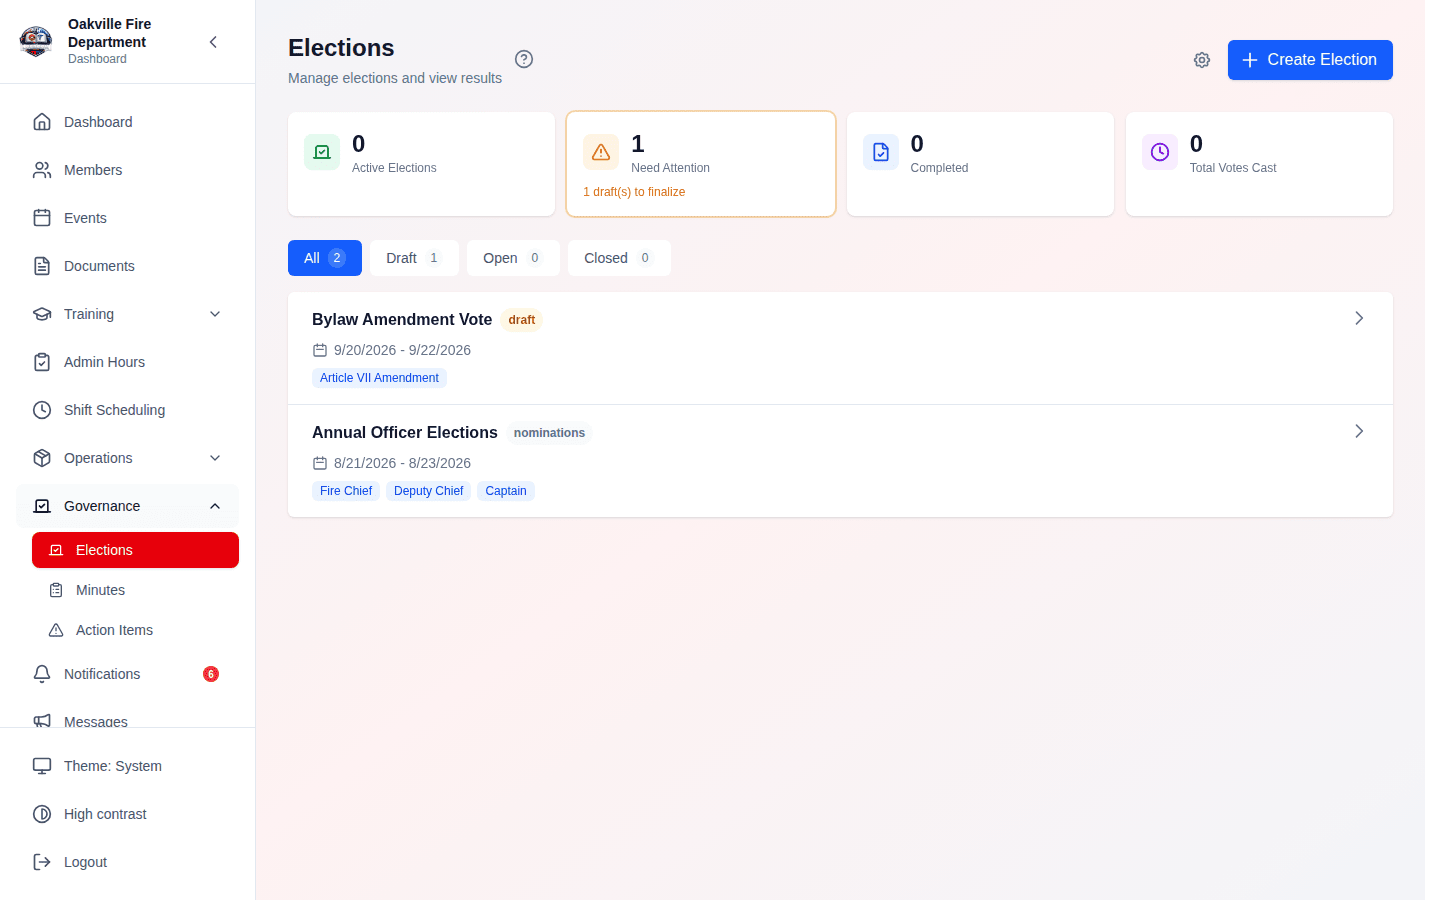
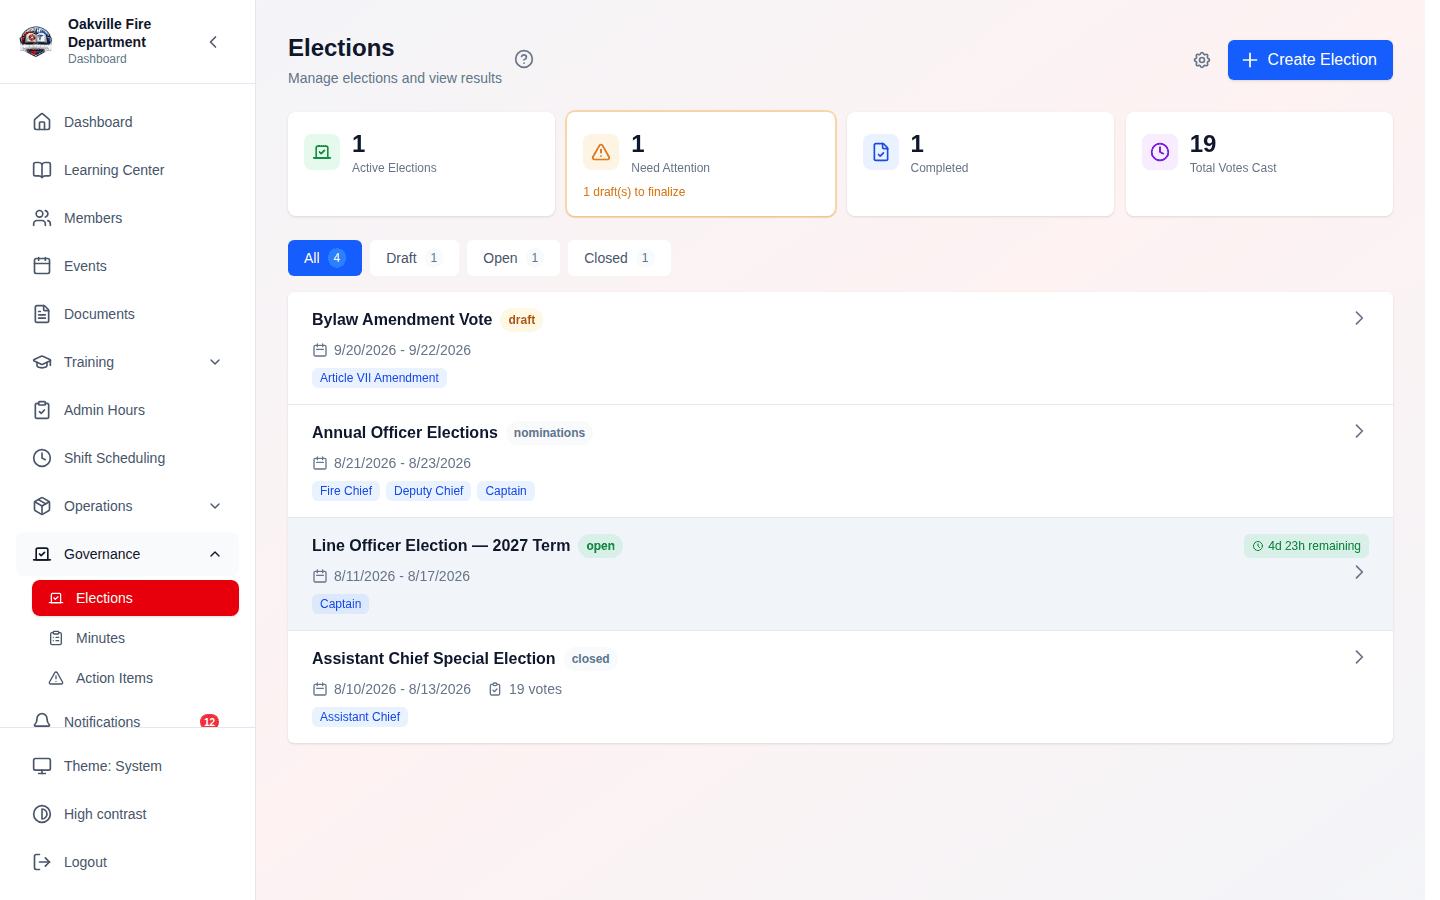
Photograph a member's ballot, and find that half of one is missing
Seeded an election that is actually taking votes. The three seeded elections
were a draft, one in nominations and one closed — between them they covered
every screen except the one a rank-and-file member uses, so the voting page
could only ever be photographed empty. The new one is left with no votes
recorded, because a member who has already voted is shown the receipt instead
of a ballot. Its ballot deliberately mixes a position race with a bylaw
amendment.

That mix is what exposed the finding. Members reach a ballot two ways and the
two disagree about what is on it: the public token ballot reads
election.ballot_items and renders every item, submitting them atomically by
ballot_item_id, while the in-app Cast Vote tab never reads ballot_items at all
— it derives the ballot from election.positions and submits one position at a
time. An item with no position is therefore invisible in the app. It is not
refused or flagged; the ballot simply omits it and the button names the one
position it found. A secretary who builds a two-item ballot and watches members
vote in-app gets a result for one item and silence on the other. Converging the
two ballots is a real piece of work, not a patch, so it is written up as needing
an owner and the guide now says to send the public link for a mixed ballot.

The seeder could not reach any of this at first: on a re-run the elections step
died trying to link the already-closed election to a meeting, which fails
[…]

diff --git a/scripts/screenshots/seed_demo_data.py b/scripts/screenshots/seed_demo_data.py
@@ -7312,7 +7312,114 @@ class Seeder:
         self._link_elections_to_meetings(elections)
         self._seed_nominations(elections)
         self._seed_closed_election(elections, minutes or [])
+        self._seed_open_election(elections)
         return elections
+
+    OPEN_ELECTION_TITLE = "Line Officer Election — 2027 Term"
+
+    # Two candidates and a separate yes/no question, so one ballot shows both
+    # controls a voter meets: a candidate choice and an approval vote.
+    OPEN_ELECTION_CANDIDATES = [
+        (
+            "Dana Ruiz",
+            "Nine years on Engine 1, acting officer since 2025.",
+        ),
+        (
+            "Emeka Adeyemi",
+            "Rescue technician and lead instructor for vehicle extrication.",
+        ),
+    ]
+
+    def _seed_open_election(self, elections: list[dict]) -> None:
+        """An election actually taking votes, so the member ballot can be shown.
+
+        The other three seeded elections are a draft, one taking nominations
+        and one closed — between them they cover everything except the screen
+        a rank-and-file member actually uses. Without one in ``open`` status
+        the voting page can only ever be photographed empty.
+
+        Deliberately left with no votes recorded: the shot wanted is an
+        unmarked ballot, and any member who has already voted is shown the
+        receipt instead.
+        """
+        if any(pick(e, "title") == self.OPEN_ELECTION_TITLE for e in elections):
+            return
+
+        members = items(self.api.get("/users?limit=100"), "users")
+        by_name = {
+            f"{pick(m, 'first_name', 'firstName')} "
+            f"{pick(m, 'last_name', 'lastName')}": pick(m, "id")
+            for m in members
+        }
+
+        election = self.api.post(
+            "/elections",
+            {
+                "title": self.OPEN_ELECTION_TITLE,
+                "description": (
+                    "Annual election for line officer positions, plus one "
+                    "bylaw amendment carried over from the August meeting."
+                ),
+                "election_type": "position",
+                "positions": ["Captain"],
+                "ballot_items": [
+                    {
+                        "id": "item-captain",
+                        "type": "officer_election",
+                        "title": "Captain",
+                        "description": (
+                            "Vote for one candidate for Captain, two-year term "
+                            "beginning January 2027."
+                        ),
+                        "position": "Captain",
+                        "vote_type": "candidate_selection",
+                        "voting_method": "simple_majority",
+                    },
+                    {
+                        "id": "item-bylaw",
+                        "type": "general_vote",
+                        "title": "Bylaw Amendment — Article IV, Meeting Quorum",
+                        "description": (
+                            "Shall Article IV be amended to reduce the quorum "
+                            "for a business meeting from 40% to 30% of active "
+                            "members?"
+                        ),
+                        "vote_type": "approval",
+                    },
+                ],
+                "start_date": iso(NOW - timedelta(days=1)),
+                "end_date": iso(NOW + timedelta(days=5)),
+                "anonymous_voting": True,
+                "allow_write_ins": True,
+                "results_visible_immediately": False,
+                "voting_method": "simple_majority",
+                "victory_condition": "most_votes",
+                "quorum_type": "percentage",
+                "quorum_value": 50,
+            },
+        )
+        election_id = pick(election, "id")
+        if not election_id:
+            return
+
+        for name, statement in self.OPEN_ELECTION_CANDIDATES:
+            self.api.post(
+                f"/elections/{election_id}/candidates",
+                {
+                    "election_id": election_id,
+                    "name": name,
+                    "position": "Captain",
+                    "user_id": by_name.get(name),
+                    "statement": statement,
+                },
+            )
+
+        try:
+            self.api.post(f"/elections/{election_id}/open")
+        except ApiError as exc:
+            self.blocked.append(f"open election: {exc}")
+            return
+        elections.append(self.api.get(f"/elections/{election_id}"))
 
     # Who attests the paper tally. Neither may be a candidate, and neither may
     # be the officer who recorded the batch — the API enforces both.
@@ -7512,6 +7619,14 @@ class Seeder:
         for index, election in enumerate(elections):
             election_id = pick(election, "id")
             if not election_id or pick(election, "event_id", "eventId"):
+                continue
+            # A closed or cancelled election refuses every field update except
+            # results_visible_immediately, so patching one is a guaranteed 400.
+            # It matters on a re-run: the list representation omits event_id, so
+            # an already-linked election looks unlinked here and we would try to
+            # link it again — failing the whole elections step, and with it every
+            # election seeded after this call.
+            if str(pick(election, "status") or "").lower() in {"closed", "cancelled"}:
                 continue
             meeting_id = pick(meetings[index % len(meetings)], "id")
             if not meeting_id:

diff --git a/docs/KNOWN_LIMITATIONS.md b/docs/KNOWN_LIMITATIONS.md
@@ -1297,6 +1297,38 @@ Two related facts worth carrying:
   trusts it over the manifest.** When that copy goes stale, `npm ls` reports the
   tree as invalid while `npm ci` still exits 0 — a silent refusal to re-resolve.
 
+## Elections — The In-App Ballot Only Shows Position Races (2026-08-12)
+
+An election can carry three kinds of ballot item — `officer_election`,
+`general_vote` and `membership_approval` — and the Ballot Builder happily
+creates all three. Members reach a ballot two ways, and the two disagree about
+what is on it:
+
+- **The public token ballot** (`BallotVotingPage`, `/ballot?token=…`, the link
+  sent by email) reads `election.ballot_items` and renders every item, then
+  submits them atomically as `{ballot_item_id, candidate_ids | rankings | …}`.
+- **The in-app Cast Vote tab** (`ElectionBallot`, on the election detail page)
+  never reads `ballot_items` at all. It derives the ballot from
+  `election.positions`, renders the candidates for each, and submits **one
+  position at a time** as `{position, …}`.
+
+So an item with no position — a bylaw amendment, a membership approval —
+is invisible to anyone voting in the app. It is not refused or flagged: the
+ballot simply does not mention it, and the submit button names the one position
+it did find ("Submit Vote for Captain"). A secretary who builds a two-item
+ballot and watches members vote in-app gets a result for one item and silence on
+the other.
+
+Reproducible in the demo data: the seeded "Line Officer Election — 2027 Term"
+has a Captain race and an Article IV quorum amendment, and
+`docs/training/images/04-42-cast-ballot.png` is the in-app ballot showing only
+the former.
+
+This is not a small patch — the in-app component would have to move from the
+position model to the ballot-item model the public page already uses, including
+its submission shape. Needs an owner decision on whether to converge the two
+ballots or retire one of them. This loop does not make that call.
+
 ## Membership — Department Email Generation Has No Settings Screen (2026-08-12)
 
 The backend implements department email generation end to end.

diff --git a/docs/training/01-membership.md b/docs/training/01-membership.md
@@ -1040,8 +1040,21 @@ Membership IDs are now auto-generated when a member is created or transferred. A
 - When a member is reactivated, their previous membership number is automatically restored
 - The active membership number column is NULLed on archive so the number can be reassigned if needed
 
-> **Screenshot needed:**
-> _[Screenshot of a member profile showing the auto-generated Membership ID field (e.g., "2026-0042") in the member details section, with the field marked as read-only]_
+The generated number appears on the member's **admin edit** page, under
+Department Information, next to Rank and Station. It shows on the member's
+profile too, as `#021` beneath their name.
+
+![The Department Information block on the admin member edit page — the auto-generated Membership Number alongside Rank and Station, all editable](./images/01-36-membership-number-field.png)
+
+> **Corrected 2026-08-12 — the number is editable, not read-only.** This guide
+> previously described it as a read-only field. It is a normal text input: an
+> officer can overwrite a generated number, which is what makes reassigning a
+> retired number possible. Two guardrails apply instead of read-only — the field
+> is one of the restricted ones (`rank`, `station`, `platoon`,
+> `membership_number`), so it takes leadership, secretary or membership
+> coordinator permission to change; and the number must be unique within your
+> department, so saving a number another active member already holds is refused
+> with "A member with this membership number already exists".
 
 > **Edge case:** If a member is archived and then a new member is assigned their old number, reactivating the archived member will generate a new number instead of conflicting.
 

diff --git a/docs/training/04-events-meetings.md b/docs/training/04-events-meetings.md
@@ -602,14 +602,23 @@ Each election shows:
 ### Casting Your Vote
 
 1. Click on an active election.
-2. Review the candidates or ballot items.
-3. Make your selections.
-4. Submit your ballot.
+2. Open the **Cast Vote** tab.
+3. Review the candidates for each position and make your selection.
+4. Submit — **one position at a time**. Each position has its own submit button
+   ("Submit Vote for Captain"), and a position you have already voted on is
+   shown as voted rather than offered again.
 
-> **Screenshot placeholder:**
-> _[Screenshot of the voting page showing the election title, ballot items with candidate names and descriptions, radio buttons or checkboxes for selection, and a Submit Ballot button at the bottom]_
+![The Cast Vote tab on an open election — the Captain race with its two candidates and their statements, and the per-position submit button beneath them](./images/04-42-cast-ballot.png)
 
 > **Hint:** Votes are anonymous by default. The system records that you voted but not how you voted. Write-in candidates are supported when enabled by the election creator.
+
+> **Voting in the app covers position races only _(2026-08-12)_.** The Cast Vote
+> tab builds its ballot from the election's positions, so a ballot item that is
+> not a position — a bylaw amendment or a membership approval — does not appear
+> there and cannot be voted on in the app. Those items do appear on the emailed
+> public ballot link, which renders every ballot item. If your ballot mixes the
+> two, send the public link rather than asking members to vote in the app. See
+> [KNOWN_LIMITATIONS.md](../KNOWN_LIMITATIONS.md#elections--the-in-app-ballot-only-shows-position-races-2026-08-12).
 
 ### Creating Elections (Officers)
 

diff --git a/docs/training/SCREENSHOT_STATUS.md b/docs/training/SCREENSHOT_STATUS.md
@@ -9,15 +9,15 @@ image still matches the application is tracked by hand in
 [SCREENSHOT_CURRENCY.md](./SCREENSHOT_CURRENCY.md) — this file is
 regenerated wholesale, so that audit cannot live here.
 
-**399 of 435 placeholders filled** (36 remaining).
+**401 of 435 placeholders filled** (34 remaining).
 
 | Guide | Captured | Remaining |
 |-------|---------:|----------:|
 | [00-getting-started.md](./00-getting-started.md) | 13 | 0 |
-| [01-membership.md](./01-membership.md) | 23 | 3 |
+| [01-membership.md](./01-membership.md) | 24 | 2 |
 | [02-training.md](./02-training.md) | 68 | 6 |
 | [03-scheduling.md](./03-scheduling.md) | 62 | 5 |
-| [04-events-meetings.md](./04-events-meetings.md) | 29 | 2 |
+| [04-events-meetings.md](./04-events-meetings.md) | 30 | 1 |
 | [05-inventory.md](./05-inventory.md) | 45 | 7 |
 | [06-apparatus-facilities.md](./06-apparatus-facilities.md) | 16 | 0 |
 | [07-documents-forms.md](./07-documents-forms.md) | 13 | 0 |
@@ -32,5 +32,5 @@ regenerated wholesale, so that audit cannot live here.
 | [16-integrations.md](./16-integrations.md) | 5 | 4 |
 | [17-privacy-data-rights.md](./17-privacy-data-rights.md) | 2 | 0 |
 | [18-storefront.md](./18-storefront.md) | 4 | 1 |
-| **Total** | **399** | **36** |
+| **Total** | **401** | **34** |
 
